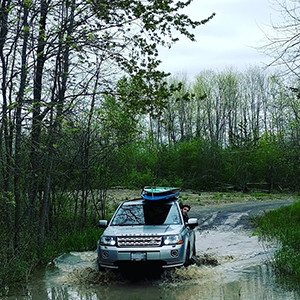
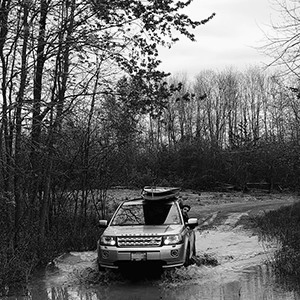
updated style, updated location data currently in json file

diff --git a/js/maps.js b/js/maps.js
@@ -5,27 +5,111 @@ function initMap() {
 
   map = new google.maps.Map(document.getElementById('map'), {
     center: myLatLng,
-    zoom: 8
+    zoom: 8,
+    styles: [
+      {
+        elementType: 'geometry',
+        stylers: [{color: '#f5f5f5'}]
+      },
+      {
+        elementType: 'labels.icon',
+        stylers: [{visibility: 'off'}]
+      },
+      {
+        elementType: 'labels.text.fill',
+        stylers: [{color: '#616161'}]
+      },
+      {
+        elementType: 'labels.text.stroke',
+        stylers: [{color: '#f5f5f5'}]
+      },
+      {
+        featureType: 'administrative.land_parcel',
+        elementType: 'labels.text.fill',
+        stylers: [{color: '#bdbdbd'}]
+      },
+      {
+        featureType: 'poi',
+        elementType: 'geometry',
+        stylers: [{color: '#eeeeee'}]
+      },
+      {
+        featureType: 'poi',
+        elementType: 'labels.text.fill',
+        stylers: [{color: '#757575'}]
+      },
+      {
+        featureType: 'poi.park',
+        elementType: 'geometry',
+        stylers: [{color: '#e5e5e5'}]
+      },
+      {
+        featureType: 'poi.park',
+        elementType: 'labels.text.fill',
+        stylers: [{color: '#9e9e9e'}]
+      },
+      {
+        featureType: 'road',
+        elementType: 'geometry',
+        stylers: [{color: '#ffffff'}]
+      },
+      {
+        featureType: 'road.arterial',
+        elementType: 'labels.text.fill',
+        stylers: [{color: '#757575'}]
+      },
+      {
+        featureType: 'road.highway',
+        elementType: 'geometry',
+        stylers: [{color: '#dadada'}]
+      },
+      {
+        featureType: 'road.highway',
+        elementType: 'labels.text.fill',
+        stylers: [{color: '#616161'}]
+      },
+      {
+        featureType: 'road.local',
+        elementType: 'labels.text.fill',
+        stylers: [{color: '#9e9e9e'}]
+      },
+      {
+        featureType: 'transit.line',
+        elementType: 'geometry',
+        stylers: [{color: '#e5e5e5'}]
+      },
+      {
+        featureType: 'transit.station',
+        elementType: 'geometry',
+        stylers: [{color: '#eeeeee'}]
+      },
+      {
+        featureType: 'water',
+        elementType: 'geometry',
+        stylers: [{color: '#c9c9c9'}]
+      },
+      {
+        featureType: 'water',
+        elementType: 'labels.text.fill',
+        stylers: [{color: '#9e9e9e'}]
+      }
+    ]
   });
-
-
- 
-  // markers = [
-  //   {
-  //     coords: { lat: 43.6532, lng: -79.3831 },
-  //     iconImage: 'https://developers.google.com/maps/documentation/javascript/examples/full/images/beachflag.png',
-  //     content: '<h1>Home</h1>'
-  //   },
-  //   {
-  //     coords: { lat: 43.5890, lng: -79.6441 },
-  //     iconImage: 'https://developers.google.com/maps/documentation/javascript/examples/full/images/beachflag.png',
-  //     content: '<h1>Miss</h1>'
-  //   },
-  //   { coords: { lat: 44.5405, lng: -80.4081 } }
-  // ];
-
-// FETCH MARKERS FROM JSON
-
+  // ****************HOME MARKER/WINDOW**************
+  var homeWindow = new google.maps.InfoWindow({
+    content: "<input id=\"newlocation\" placeholder=\"change your home location\"></input>"
+  });
+  var home = new google.maps.Marker({
+    position: myLatLng,
+    map: map,
+    title: "home",
+    icon:"assets/home.png",
+    
+  });
+  home.addListener('click', function () {
+    homeWindow.open(map, home);
+  });
+ // ****************END HOME MARKER/WINDOW**************
 fetch('js/locations.json')
 .then(res => res.json())
 .then((data) => {
@@ -42,7 +126,7 @@ function addMarker(properties) {
     let marker = new google.maps.Marker({
       position: properties.coords,
       map: map,
-      title: 'Home',
+      title: `${properties.content.location}`,
 
     });
 
@@ -52,7 +136,26 @@ function addMarker(properties) {
     }
     if (properties.content) {
       var infoWindow = new google.maps.InfoWindow({
-        content: `${properties.content.location}`
+        content: `
+            <div class="row">
+            <div class="col s12 m12 location-info">
+              
+                
+                  
+            <h4 class=title">${properties.content.location}</h4>
+
+            <a class="btn-floating right waves-effect waves-light grey launch-modal" ${properties.content.modalNone}><i class="material-icons">add</i></a>
+                
+            <div class="main-info">
+            <p>${properties.content.mainInfo}</p>
+            <a href="${properties.content.link}" style="display:${properties.content.linkDisplay}" target="_blank">${properties.content.linkText}</a>
+            </div>
+              
+            </div>
+          </div>
+        
+        
+        `
       });
 
       marker.addListener('click', function () {

diff --git a/index.html b/index.html
@@ -18,14 +18,11 @@
      <!-- side nav -->
        <ul id="slide-out" class="side-nav fixed">
         <li><div class="user-view">
-          <div class="background">
-            <img src="assets/car.jpg">
-          </div>
-          <a href="#!user"><h1 class="white-text">wwTo</h1></a>
-          <a href="#!name"><span class="white-text name">John Doe</span></a>
-          <a href="#!email"><span class="white-text email">jdandturk@gmail.com</span></a>
+          
+          <h1 class="white-text">oTo</h1>
+          
         </div></li>
-        <li><a href="#!"><i class="material-icons">cloud</i>First Link With Icon</a></li>
+        <li><a href="#!"><i class="material-icons">directions_run</i>outdoorToronto</a></li>
         <li><a href="#!">Second Link</a></li>
         <li><div class="divider"></div></li>
         <li><a class="subheader">Subheader</a></li>
@@ -33,7 +30,7 @@
       </ul>
       <!-- floating btn -->
       <div class="fixed-action-btn show-on-medium-and-down hide-on-large-only">
-      <a href="#" data-activates="slide-out" class="btn-floating btn-large"><i class="material-icons">directions_run</i></a></div>
+      <a href="#" data-activates="slide-out" class="btn-floating btn-large black"><i class="material-icons">directions_run</i></a></div>
      <script type="text/javascript" src="https://code.jquery.com/jquery-3.2.1.min.js"></script>
      <script type="text/javascript" src="js/materialize.min.js"></script> 
     <script src="https://maps.googleapis.com/maps/api/js?key=AIzaSyAB5xNeGY2kTSsfkAhbolaX4QY5kxotSTY&callback=initMap"

diff --git a/css/style.css b/css/style.css
@@ -21,7 +21,39 @@ section.map, #map {
     padding-left: 0;
   }
 }
+/**************info window *****************/
 
+.location-info a{
+color: black;
+
+}
+.location-info a{
+  color: teal;
+
+  }
+.location-info a:hover {
+  text-decoration: underline;
+
+}
+
+ /* ---------bottom button-------------- */
 .fixed-action-btn {
   right: calc( 50% - 28px);
+}
+
+/********** side nav*********************/
+.user-view {
+  position: relative;
+  height: 200px;
+}
+.user-view h1{
+  margin-top: 0px;
+  text-align: center;
+}
+
+.user-view{
+ background: url(../assets/car.jpg);
+ background-position-y: -100px;
+ background-repeat: no-repeat;
+
 }
